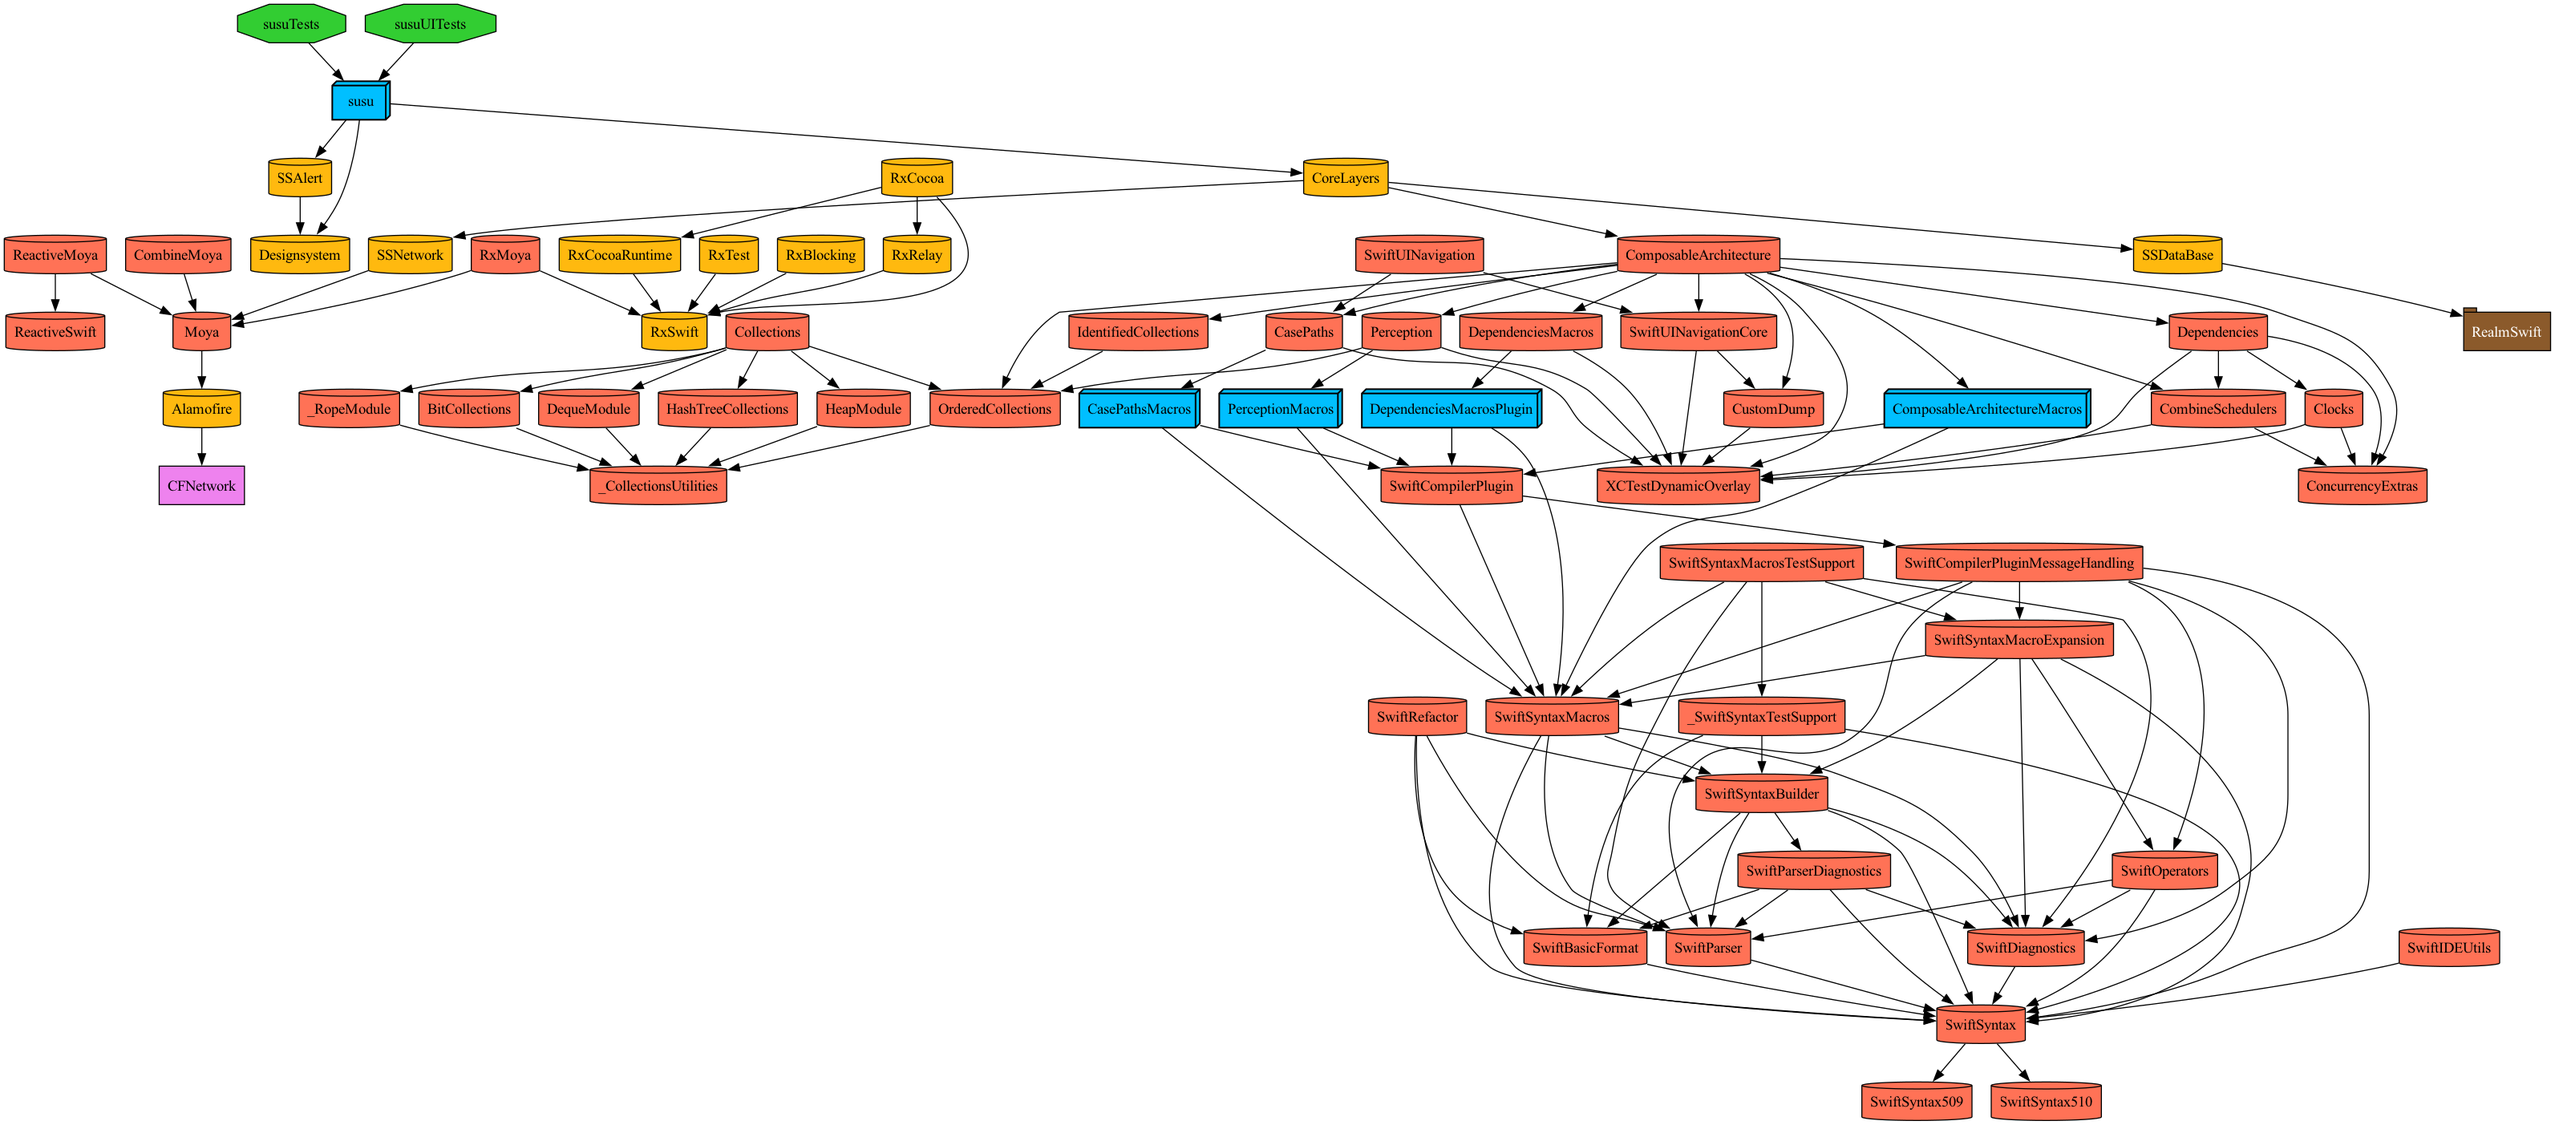
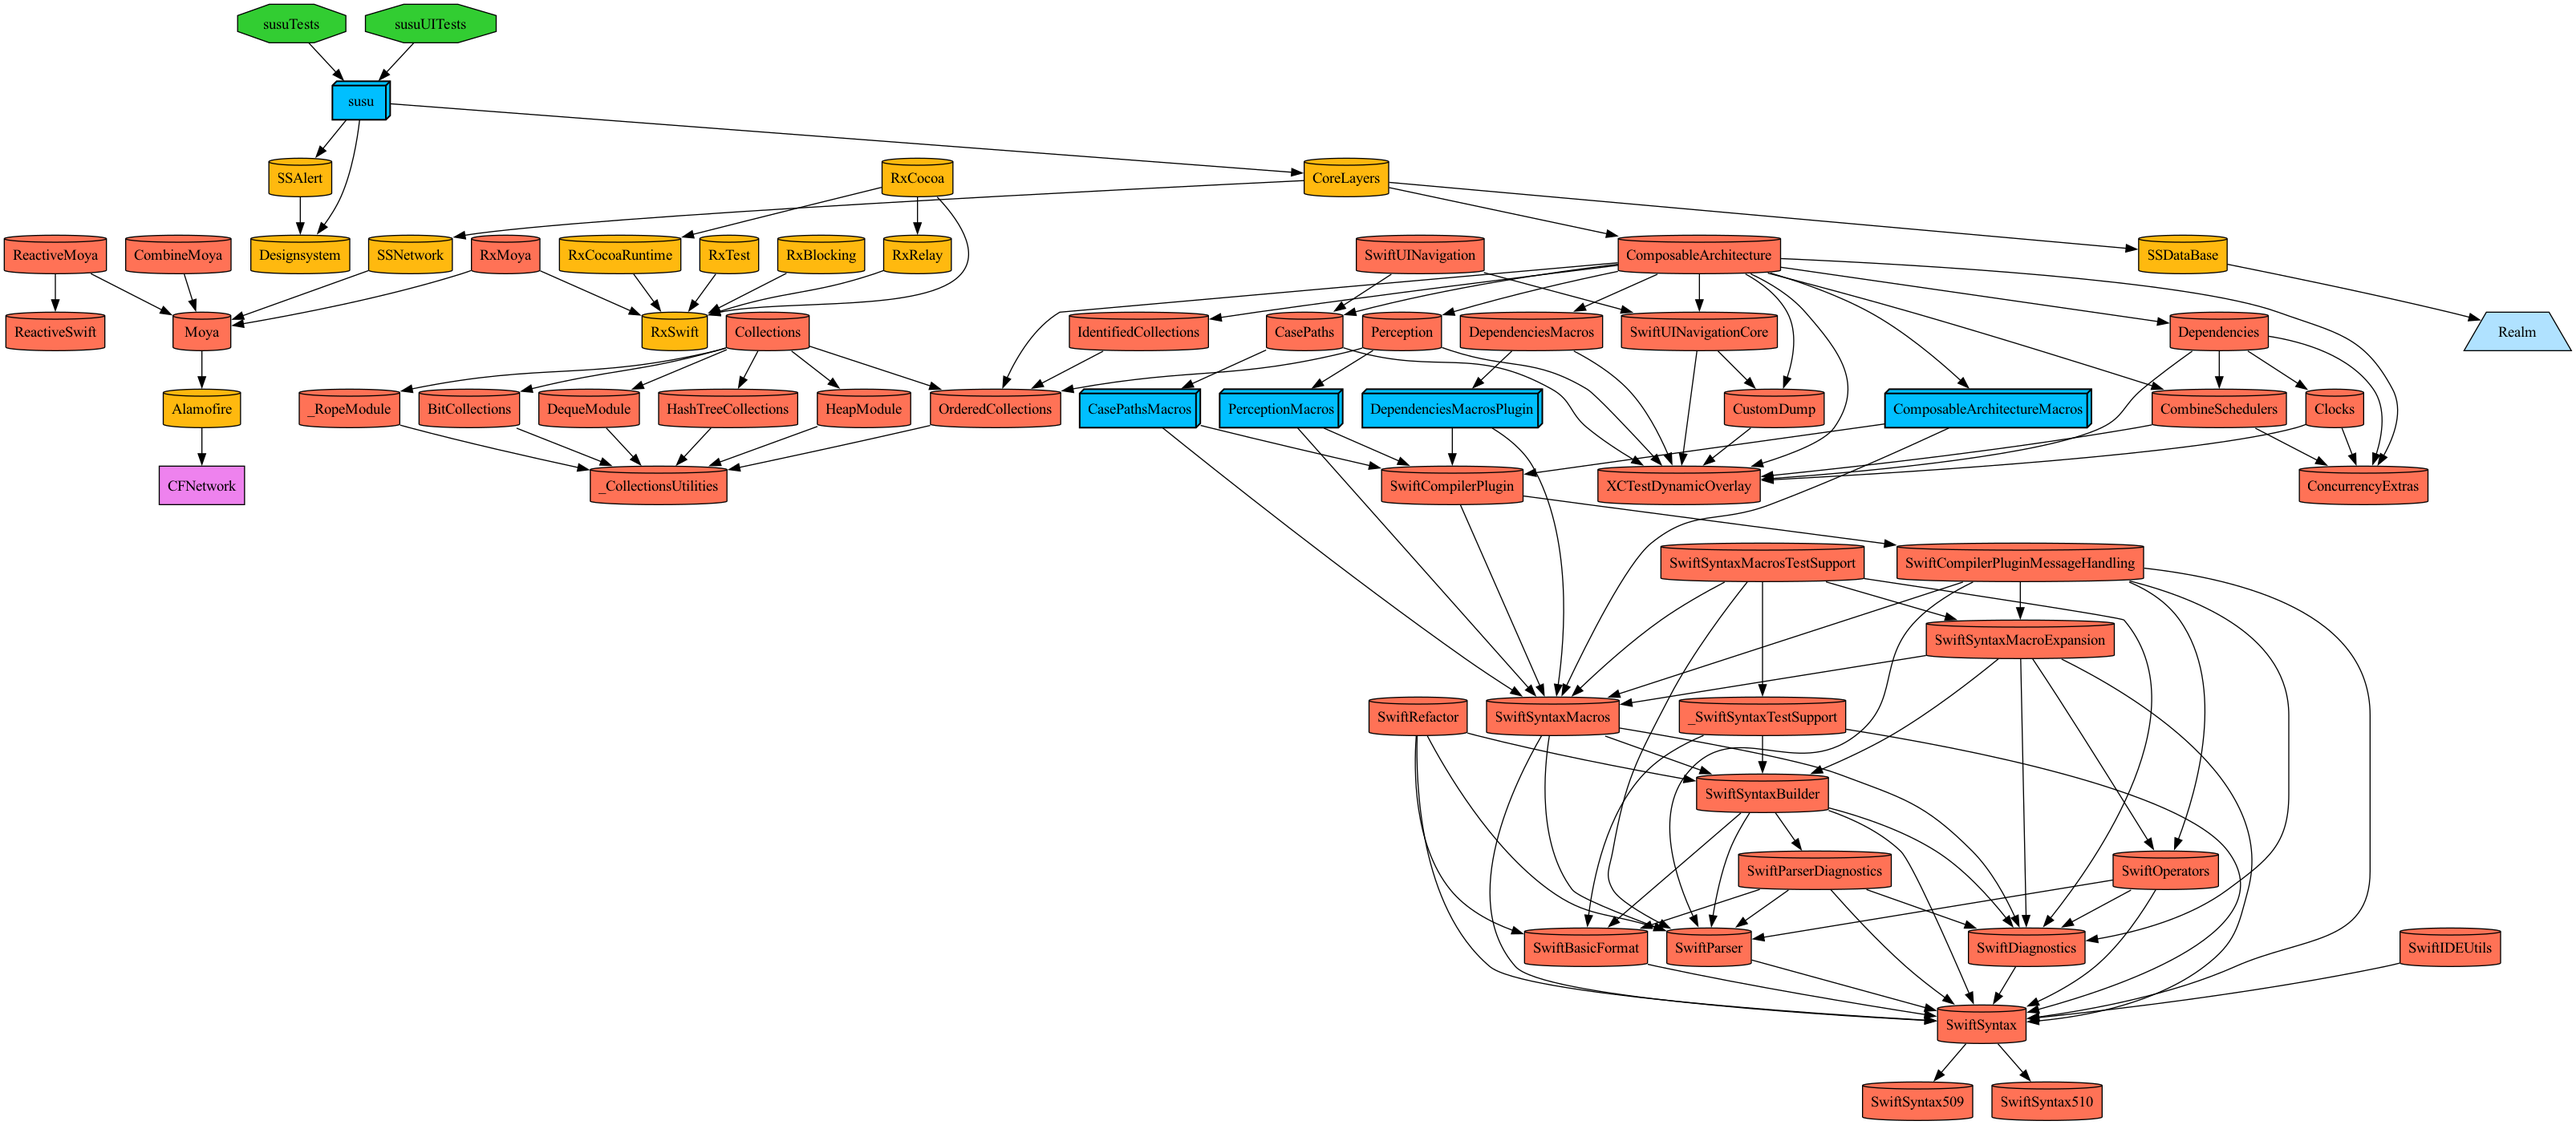
feat: Realm 설치

diff --git a/Projects/Core/SSDataBase/Sources/KeepSources.swift b/Projects/Core/SSDataBase/Sources/KeepSources.swift
@@ -1,2 +1,37 @@
 // Content of KeepSources.swift
+import OSLog
+import RealmSwift
 
+// MARK: - Todo
+
+public class Todo: Object {
+  @Persisted(primaryKey: true) var _id: ObjectId
+  @Persisted var name: String = ""
+  @Persisted var status: String = ""
+  @Persisted var ownerId: String
+  public convenience init(name: String, ownerId: String) {
+    self.init()
+    self.name = name
+    self.ownerId = ownerId
+  }
+}
+
+// MARK: - TodoSingleTone
+
+public final class TodoSingleTone {
+  public static let shared = TodoSingleTone()
+  public init() {}
+  let realm = try! Realm()
+  public func save() {
+    let todo = Todo(name: "Do laundry", ownerId: "123")
+    try! realm.write {
+      realm.add(todo)
+      realm.add(todo)
+    }
+  }
+
+  public func load() {
+    let todos = realm.objects(Todo.self)
+    os_log("\(todos)")
+  }
+}

diff --git a/Projects/App/Sources/ContentView.swift b/Projects/App/Sources/ContentView.swift
@@ -2,21 +2,19 @@ import ComposableArchitecture
 import Designsystem
 import Moya
 import OSLog
-import RealmSwift
 import SSAlert
+import SSDataBase
 import SwiftUI
 
 // MARK: - ContentView
 
 public struct ContentView: View {
   public init() {
-//    let todo = Todo(name: "Do laundry", ownerId: "123")
-//    try! realm.write {
-//      realm.add(todo)
-//      realm.add(todo)
-//    }
-//    let todos = realm.objects(Todo.self)
-//    os_log("\(todos)")
+    TodoSingleTone.shared.save()
+    TodoSingleTone.shared.save()
+    TodoSingleTone.shared.save()
+
+    TodoSingleTone.shared.load()
   }
 
   @State var name: String = ""
@@ -120,7 +118,8 @@ struct ContentView_Previews: PreviewProvider {
   }
 }
 
-//// MARK: - Todo
+// MARK: - Todo
+
 //
 // class Todo: Object {
 //  @Persisted(primaryKey: true) var _id: ObjectId

diff --git a/Tuist/Package.swift b/Tuist/Package.swift
@@ -9,7 +9,7 @@ let packageSettings = PackageSettings(
   // Customize the product types for specific package product
   // Default is .staticFramework
   // productTypes: ["Alamofire": .framework,]
-//  productTypes: ThirdParty.allCasesProductType
+  productTypes: ThirdParty.allCasesProductType
 )
 #endif
 
@@ -17,8 +17,7 @@ let package = Package(
   name: "IOS",
   dependencies: [
     .package(url: "https://github.com/Moya/Moya.git", exact: "15.0.3"),
-    .package(url: "https://github.com/pointfreeco/swift-composable-architecture", exact: "1.9.2"),
-    .package(url: "https://github.com/realm/realm-swift.git", exact: "10.45.3"),
+    .package(url: "https://github.com/pointfreeco/swift-composable-architecture", exact: "1.9.2")
   ]
 )
 

diff --git a/Projects/Core/SSDataBase/Project.swift b/Projects/Core/SSDataBase/Project.swift
@@ -8,10 +8,10 @@ let project = Project.makeModule(
     name: "SSDataBase",
     product: .framework,
     dependencies: [
-      .package(product: "ReamSwift", type: .runtime, condition: .none)
+      .package(product: "RealmSwift", type: .runtime, condition: .none),
     ]
   ),
   packages: [
-    
+    .remote(url: "https://github.com/realm/realm-swift.git", requirement: .exact("10.49.1")),
   ]
 )

diff --git a/Tuist/ProjectDescriptionHelpers/Target+Tempaltes.swift b/Tuist/ProjectDescriptionHelpers/Target+Tempaltes.swift
@@ -65,7 +65,8 @@ public extension [Target] {
         resources: "Resources/**",
         entitlements: entitlements,
         scripts: [.swiftFormat, .swiftLint],
-        dependencies: dependencies
+        dependencies: dependencies,
+        environmentVariables: ["IDEPreferLogStreaming" : "YES"]
       ),
     ]
 
